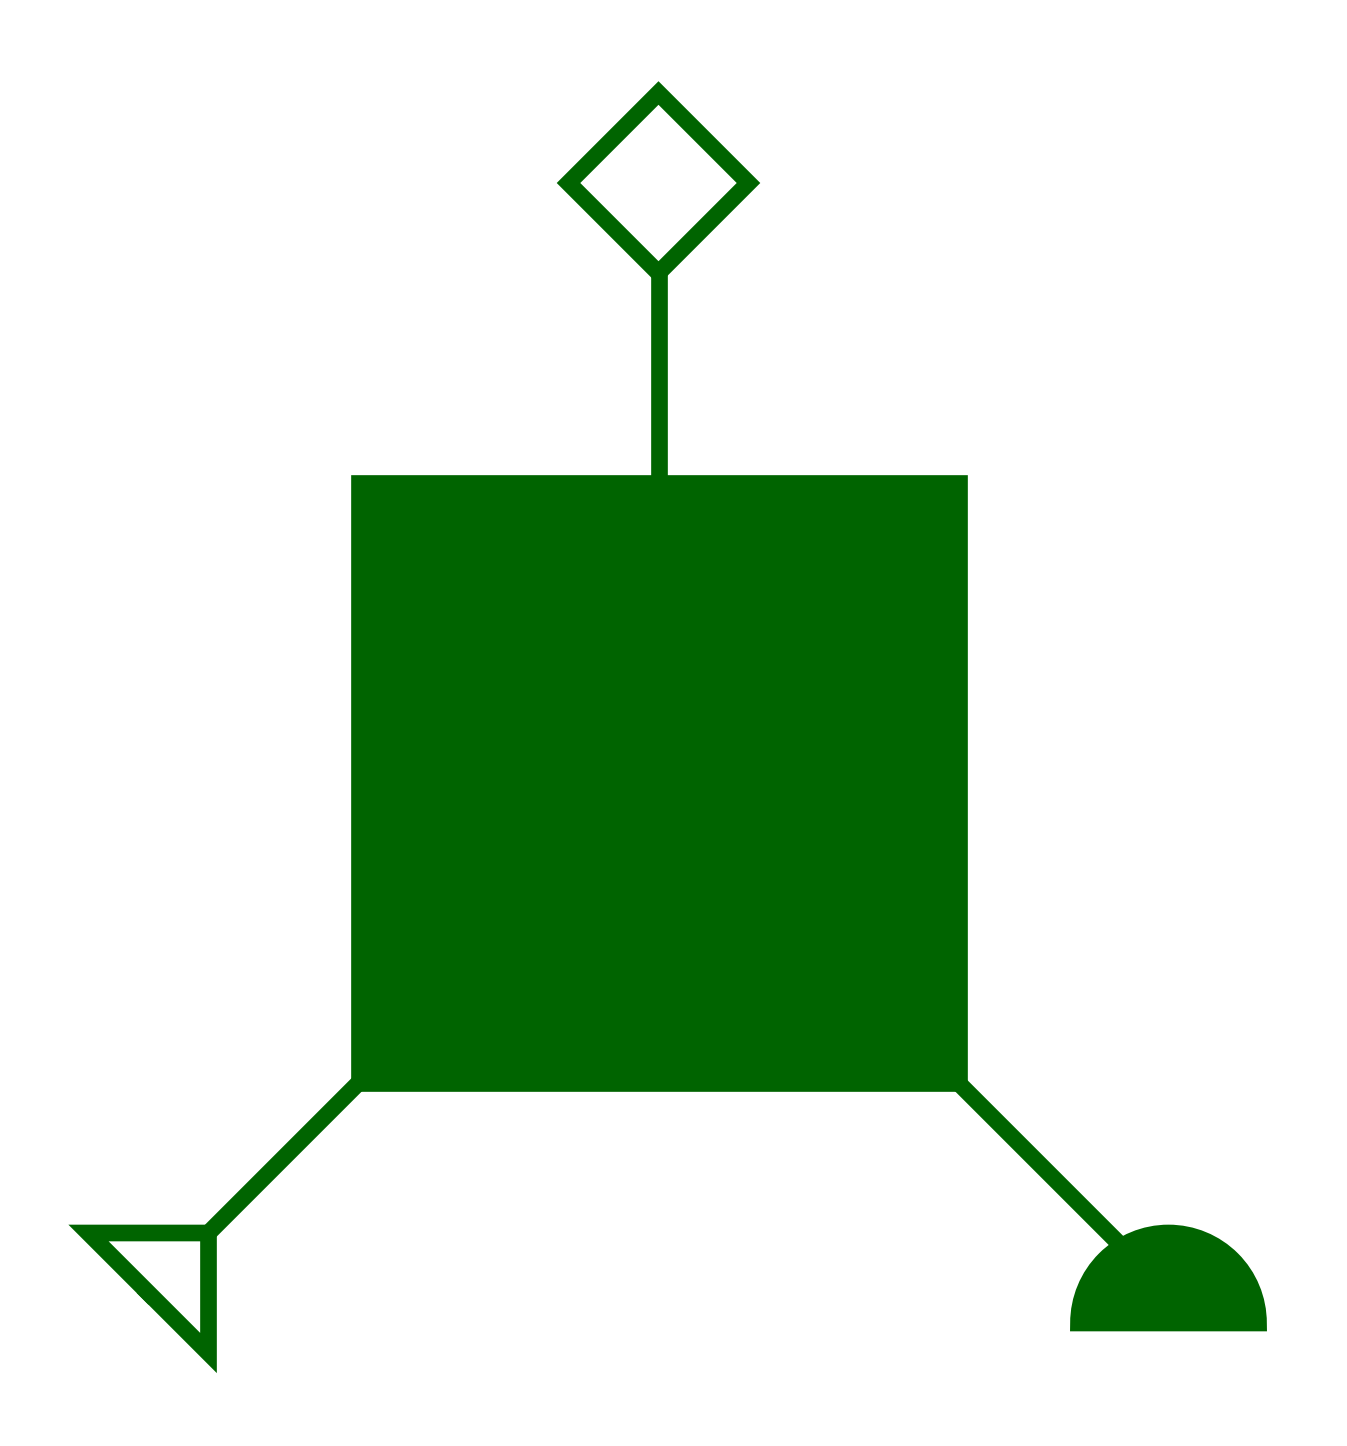
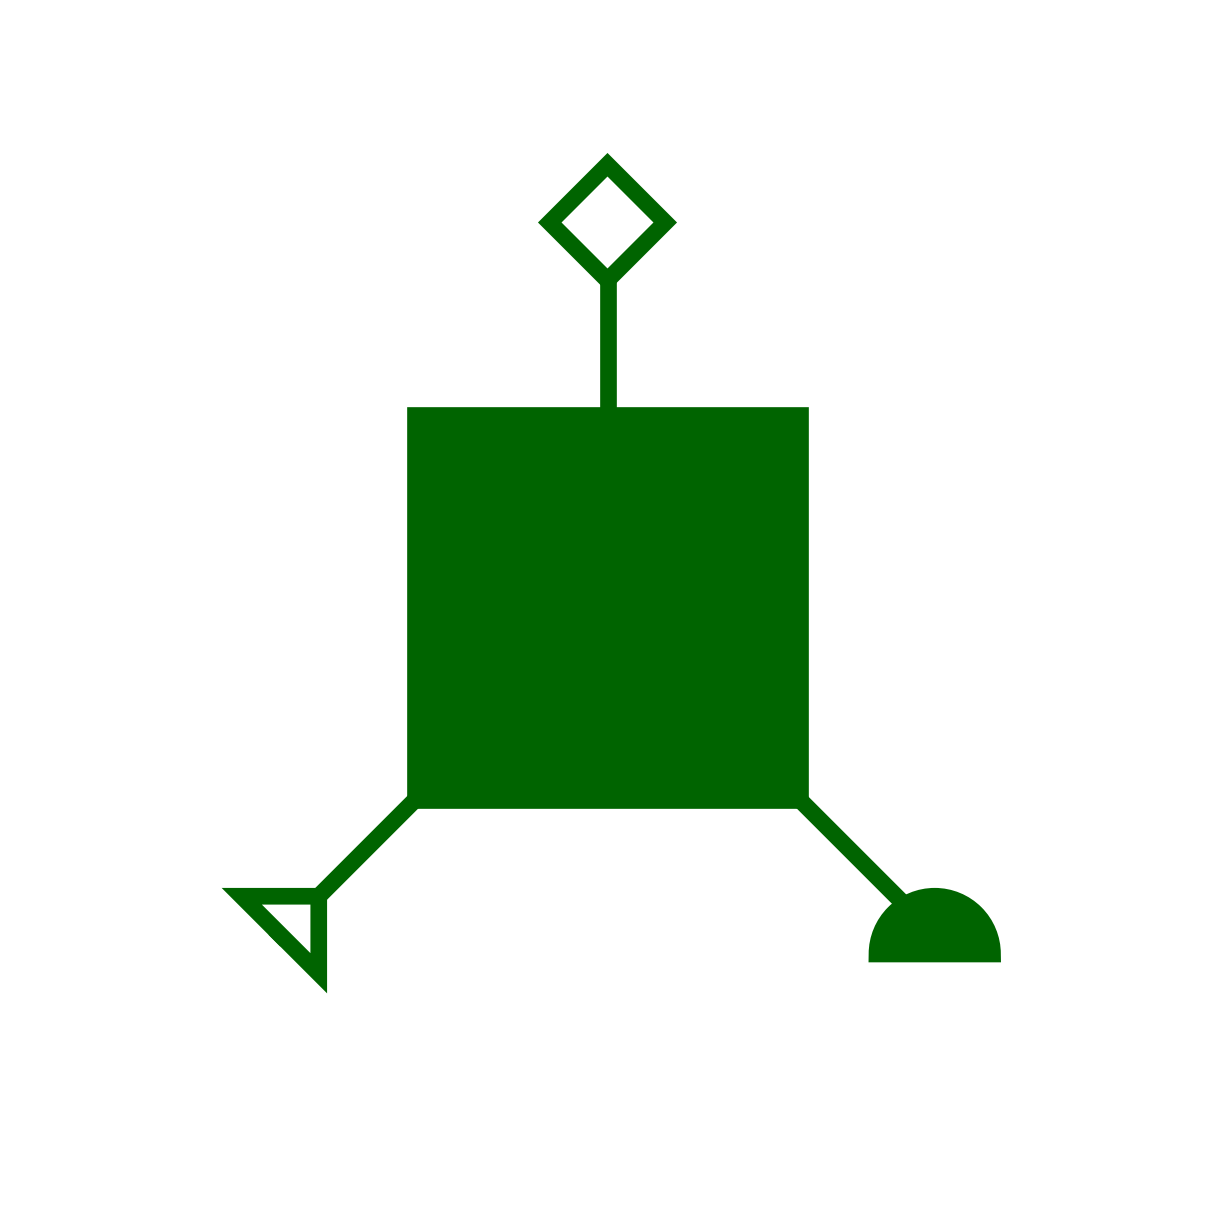
White background

Changed region(s): [[0.0609, 0.0914, 0.8222, 0.944], [0.7918, 0.8222, 0.944, 0.944], [0.4568, 0.0609, 0.5177, 0.0914]]

diff --git a/draw_alien.py b/draw_alien.py
@@ -14,9 +14,15 @@ def draw_figure(
 	synapse_edge_color="darkgreen"
 ):
 	# Create figure and axis
-	fig, ax = plt.subplots(figsize=(6, 6))
+	fig, ax = plt.subplots(figsize=(5, 5))
 	ax.set_aspect('equal')
 	ax.axis('off')
+	ax.set_facecolor('white')
+
+	# Define fixed plot limits for consistency
+	plot_limit = 3
+	ax.set_xlim(-plot_limit, plot_limit)
+	ax.set_ylim(-plot_limit, plot_limit)
 
   # Position synapses
 	synapse_positions = [
@@ -87,7 +93,7 @@ def draw_figure(
 # )
 # test.show()
 
-# %%
+#
 def draw_boolean_features(feat_arr=[1, 1, 1, 1, 1, 1, 1, 1]):
 	body_shape = "circle" if feat_arr[0] == 1 else "square"
 	body_fill = "darkgreen" if feat_arr[1] == 1 else "white"
@@ -106,7 +112,7 @@ def draw_boolean_features(feat_arr=[1, 1, 1, 1, 1, 1, 1, 1]):
   )
 
 	figure_name = ''.join([str(i) for i in feat_arr])
-	figure.savefig(figure_name, dpi=300, bbox_inches="tight")
+	figure.savefig(figure_name, dpi=300, bbox_inches="tight", pad_inches=0.1)
 	figure.show()
 
 # %% maximalist
@@ -115,8 +121,10 @@ draw_boolean_features([0, 0, 1, 0, 1, 1, 1, 1])
 draw_boolean_features([0, 1, 1, 1, 1, 0, 0, 1])
 draw_boolean_features([1, 0, 1, 1, 1, 1, 0, 0])
 
-# %% minimalist
+# minimalist
 draw_boolean_features([1, 1, 1, 0, 0, 0, 1, 0])
 draw_boolean_features([0, 0, 0, 1, 0, 0, 1, 0])
 draw_boolean_features([0, 1, 0, 0, 1, 1, 0, 0])
 draw_boolean_features([1, 0, 0, 0, 1, 0, 0, 1])
+
+# %%
